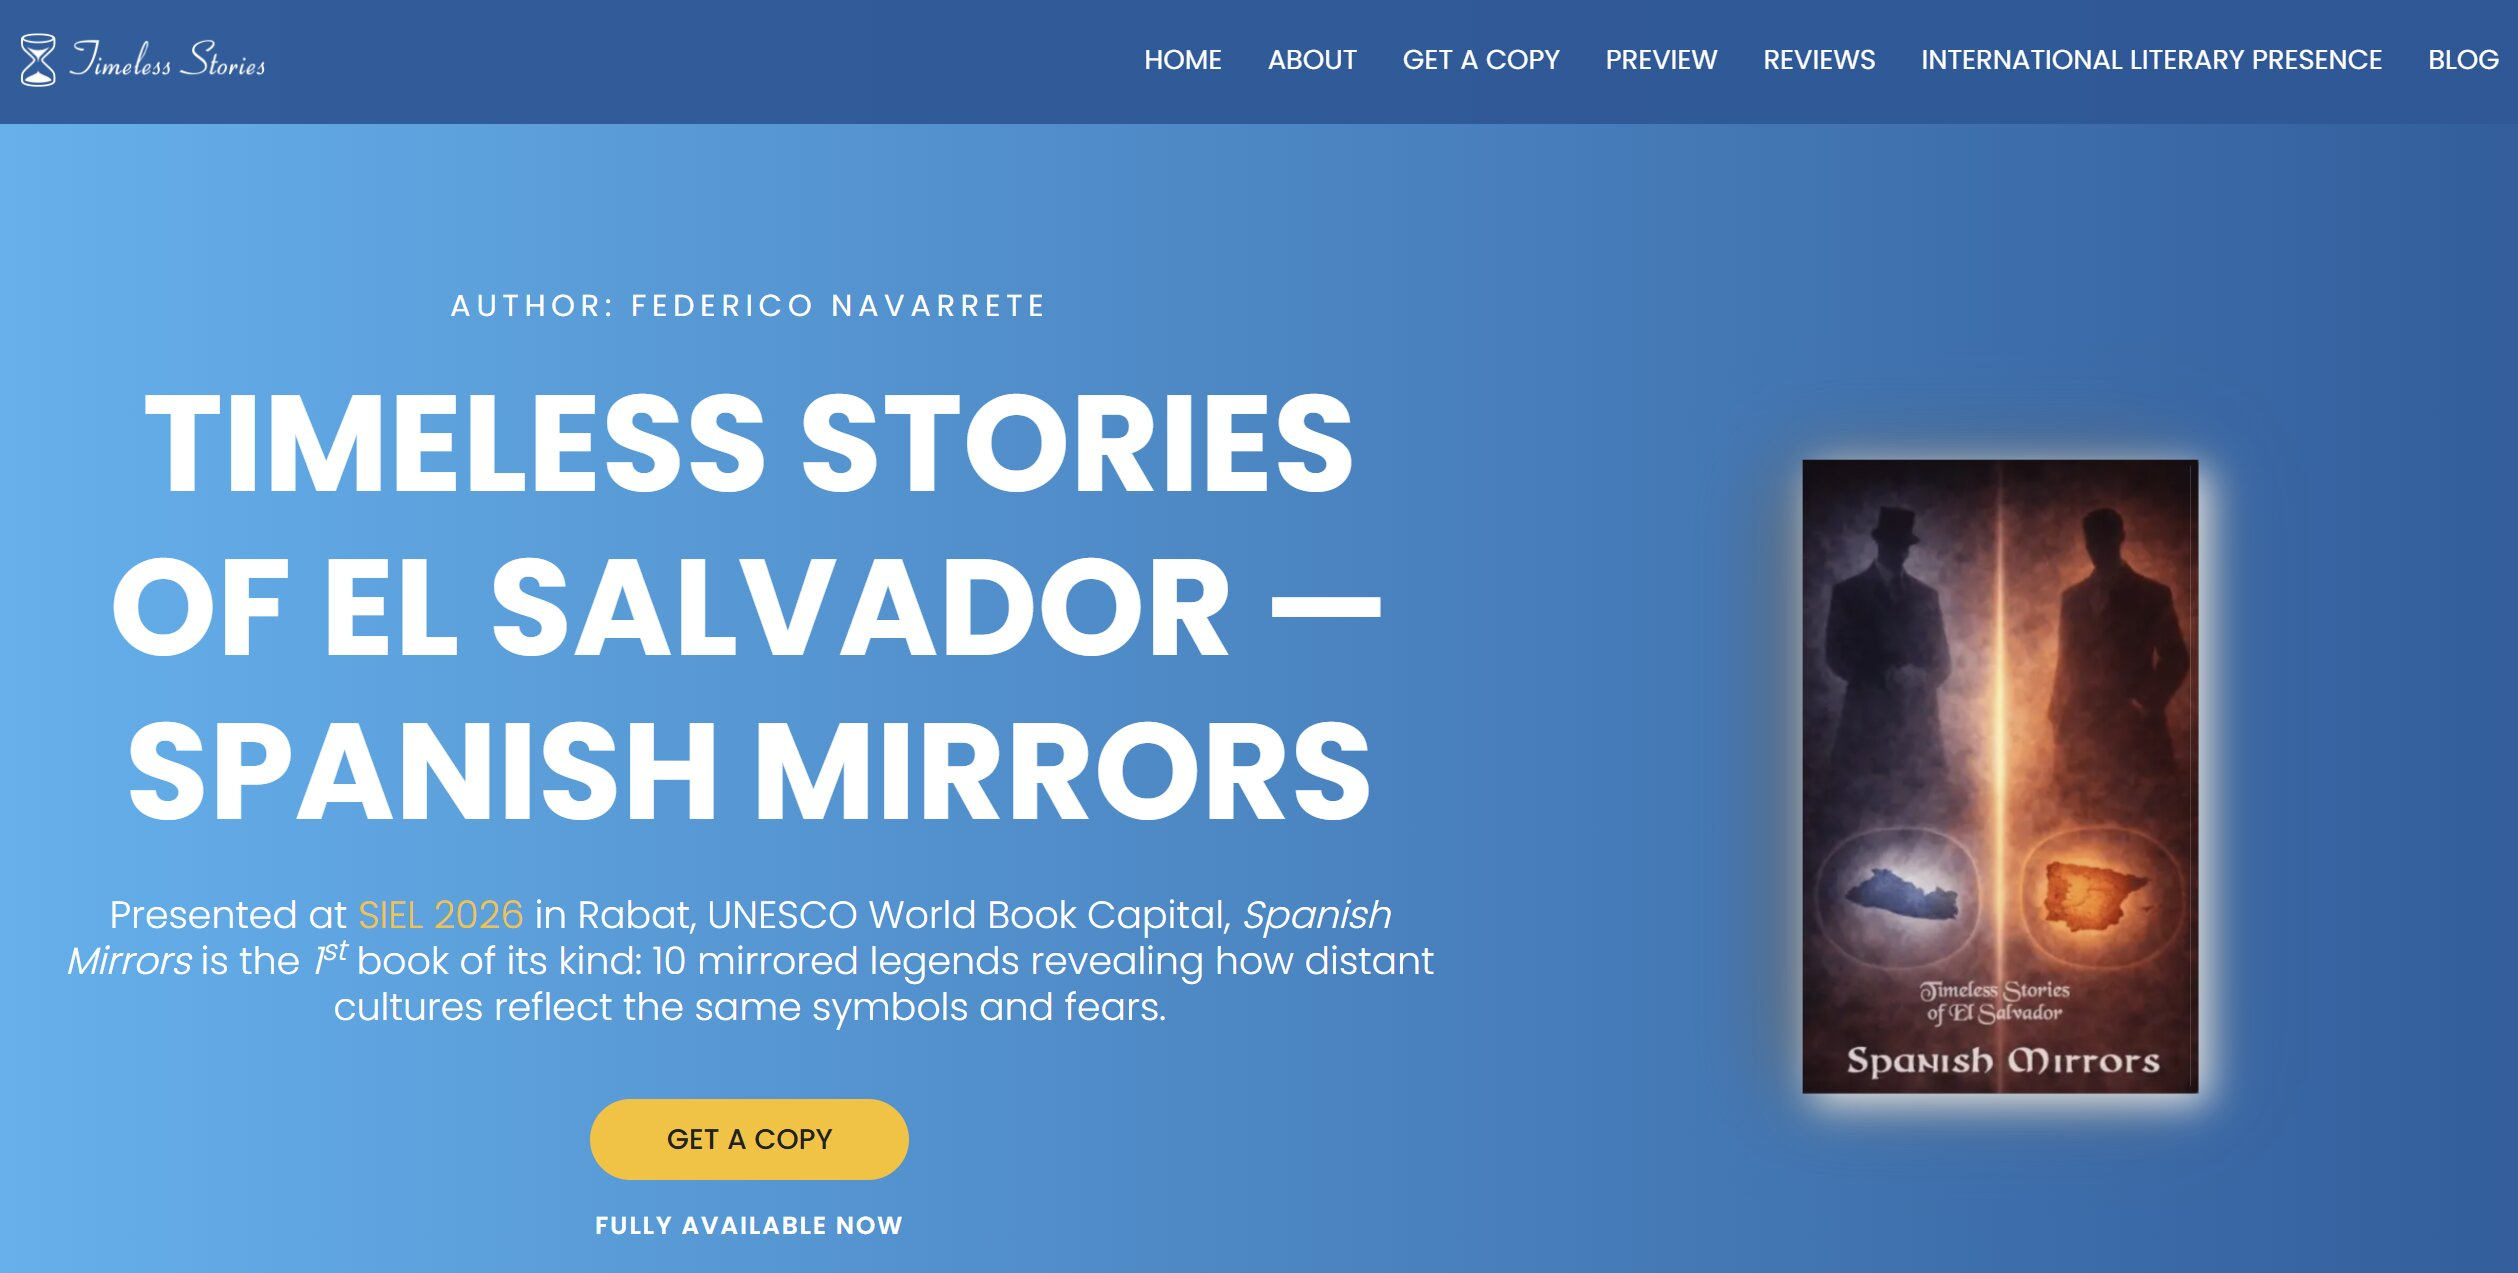
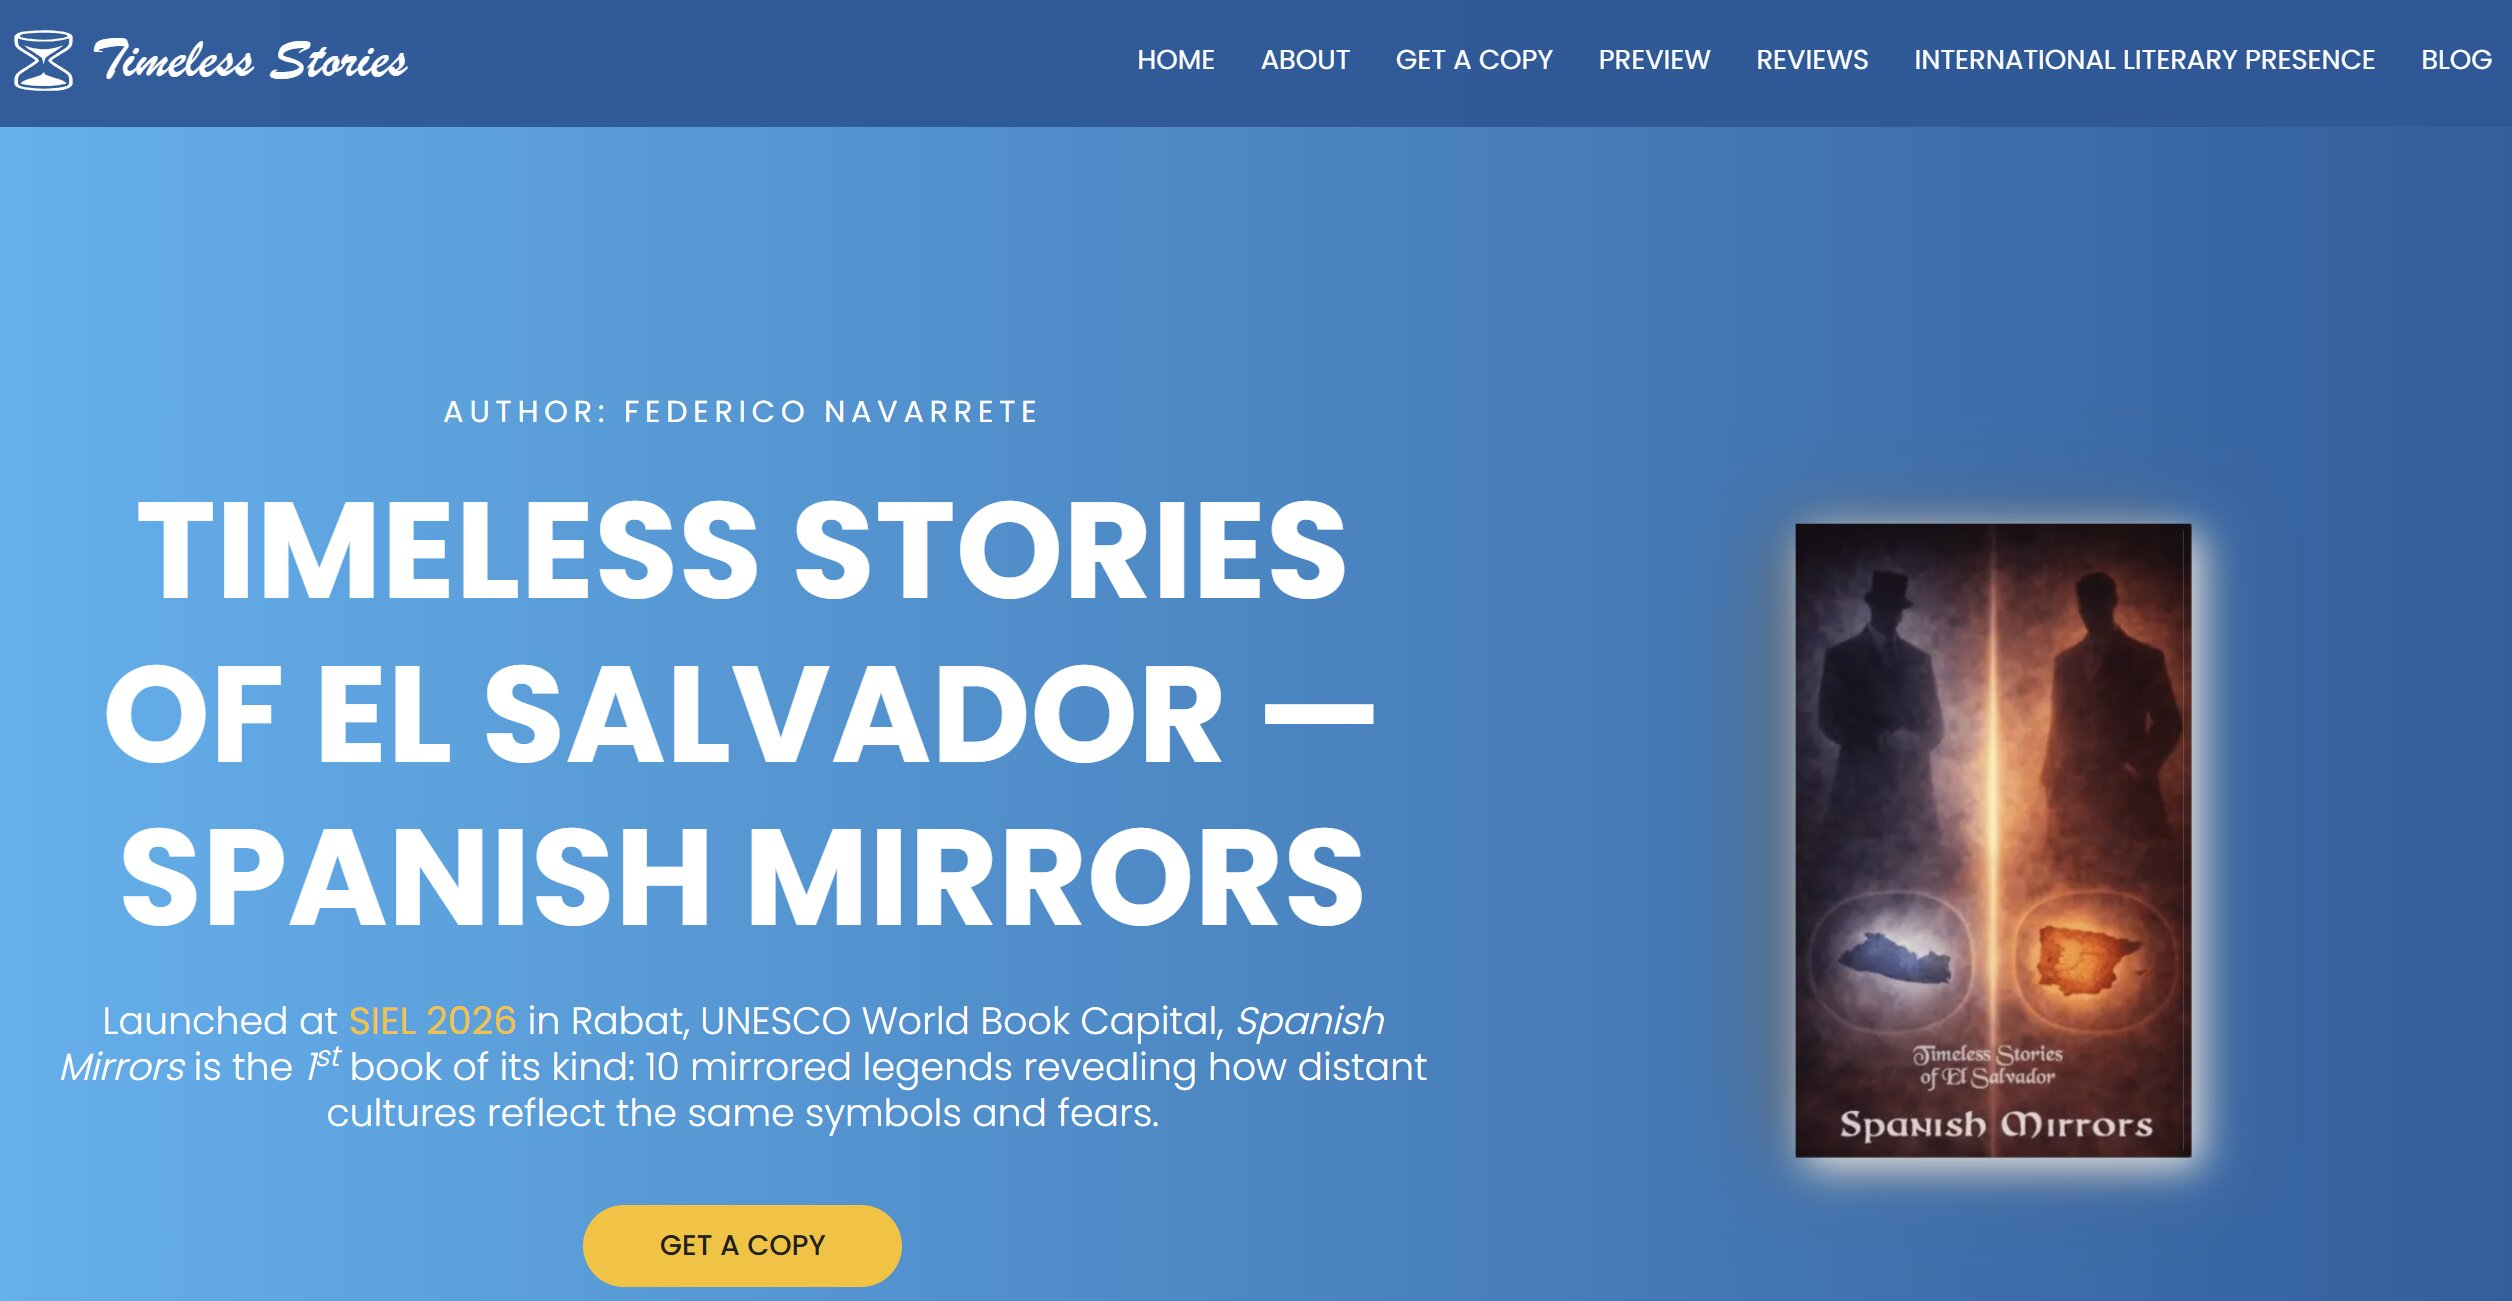
Expanded logic

diff --git a/memory-game.html b/memory-game.html
@@ -8,12 +8,12 @@
     <meta property="og:type" content="website" />
     <meta property="og:title" content="" />
     <meta property="og:description" content="" />
-    <meta property="og:image" content="https://tstories.federiconavarrete.com/img/preview.jpg" />
+    <meta property="og:image" content="https://tstories.federiconavarrete.com/img/preview_memory.jpg" />
     <meta property="og:url" content="https://tstories.federiconavarrete.com/memory-game.html" />
     <meta property="twitter:card" content="summary_large_image" />
     <meta property="twitter:title" content="" />
     <meta property="twitter:description" content="" />
-    <meta property="twitter:image" content="https://tstories.federiconavarrete.com/img/preview.jpg" />
+    <meta property="twitter:image" content="https://tstories.federiconavarrete.com/img/preview_memory.jpg" />
     <link rel="canonical" href="https://tstories.federiconavarrete.com/memory-game.html" />
     <link rel="apple-touch-icon" sizes="180x180" href="img/favicons/apple-touch-icon.png" />
     <link rel="icon" type="image/png" sizes="32x32" href="img/favicons/favicon-32x32.png" />
@@ -127,6 +127,19 @@
         color: var(--accent-dark);
         border: 1px solid rgba(1, 87, 155, 0.24);
         box-shadow: none;
+      }
+
+      html[data-theme="dark"] .game-button.secondary {
+        background: rgba(74, 168, 255, 0.14);
+        color: #d8ebff;
+        border-color: rgba(142, 196, 255, 0.46);
+        box-shadow: inset 0 0 0 1px rgba(255, 255, 255, 0.03);
+      }
+
+      html[data-theme="dark"] .game-button.secondary:hover,
+      html[data-theme="dark"] .game-button.secondary:focus-visible {
+        background: rgba(74, 168, 255, 0.22);
+        border-color: rgba(142, 196, 255, 0.7);
       }
 
       .status-grid {
@@ -423,7 +436,6 @@
         transform: scale(0.9);
       }
 
-      html[data-theme="dark"] .game-button.secondary,
       html[data-theme="dark"] .match-insight,
       html[data-theme="dark"] .status-item,
       html[data-theme="dark"] .win-card {
@@ -551,6 +563,7 @@
           <div class="win-actions">
             <button class="game-button" type="button" id="playAgainButton"></button>
             <a class="game-button" id="getCopyButton" target="_blank" rel="noopener noreferrer"></a>
+            <button class="game-button secondary" type="button" id="winShareButton"></button>
           </div>
         </div>
       </aside>
@@ -576,6 +589,7 @@
       const newGameButton = document.getElementById("newGameButton");
       const shareButton = document.getElementById("shareButton");
       const playAgainButton = document.getElementById("playAgainButton");
+      const winShareButton = document.getElementById("winShareButton");
       const getCopyButton = document.getElementById("getCopyButton");
       const searchParams = new URLSearchParams(window.location.search);
       const isEmbedded = searchParams.get("embed") === "1";
@@ -715,7 +729,7 @@
           name: memoryGame.title || "",
           description: memoryGame.subtitle || "",
           url: getShareUrl(),
-          image: "https://tstories.federiconavarrete.com/img/preview.jpg",
+          image: "https://tstories.federiconavarrete.com/img/preview_memory.jpg",
           inLanguage: document.documentElement.lang,
           isPartOf: {
             "@type": "WebSite",
@@ -729,6 +743,7 @@
         newGameButton.textContent = memoryGame.newGame || "";
         shareButton.textContent = memoryGame.share || "";
         playAgainButton.textContent = memoryGame.playAgain || "";
+        winShareButton.textContent = memoryGame.share || "";
         getCopyButton.textContent = memoryGame.getCopy || "";
         getCopyButton.href = resolveGameHref(memoryGame.getCopyHref);
         winTitle.textContent = memoryGame.winTitle || "";
@@ -945,10 +960,10 @@
         board.replaceChildren(...deck.map(createCard));
       }
 
-      async function shareGame() {
+      async function shareGame(button = shareButton) {
         const shareData = {
           title: memoryGame.title || document.title,
-          text: memoryGame.subtitle || "",
+          text: memoryGame.shareText || memoryGame.subtitle || "",
           url: getShareUrl(),
         };
 
@@ -958,16 +973,19 @@
         }
 
         await navigator.clipboard?.writeText(shareData.url);
-        const originalLabel = memoryGame.share || "";
-        shareButton.textContent = memoryGame.shareCopied || originalLabel;
+        const originalLabel = button.textContent || memoryGame.share || "";
+        button.textContent = memoryGame.shareCopied || originalLabel;
         window.setTimeout(() => {
-          shareButton.textContent = originalLabel;
+          button.textContent = originalLabel;
         }, 1600);
       }
 
       newGameButton.addEventListener("click", newGame);
       shareButton.addEventListener("click", () => {
-        shareGame().catch(() => {});
+        shareGame(shareButton).catch(() => {});
+      });
+      winShareButton.addEventListener("click", () => {
+        shareGame(winShareButton).catch(() => {});
       });
       playAgainButton.addEventListener("click", newGame);
       applyTheme();